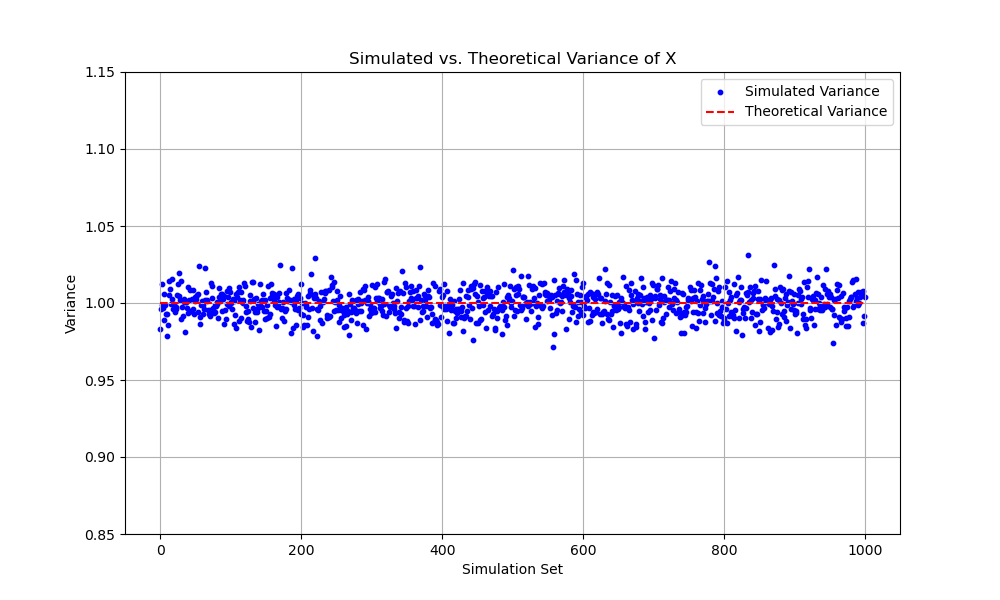
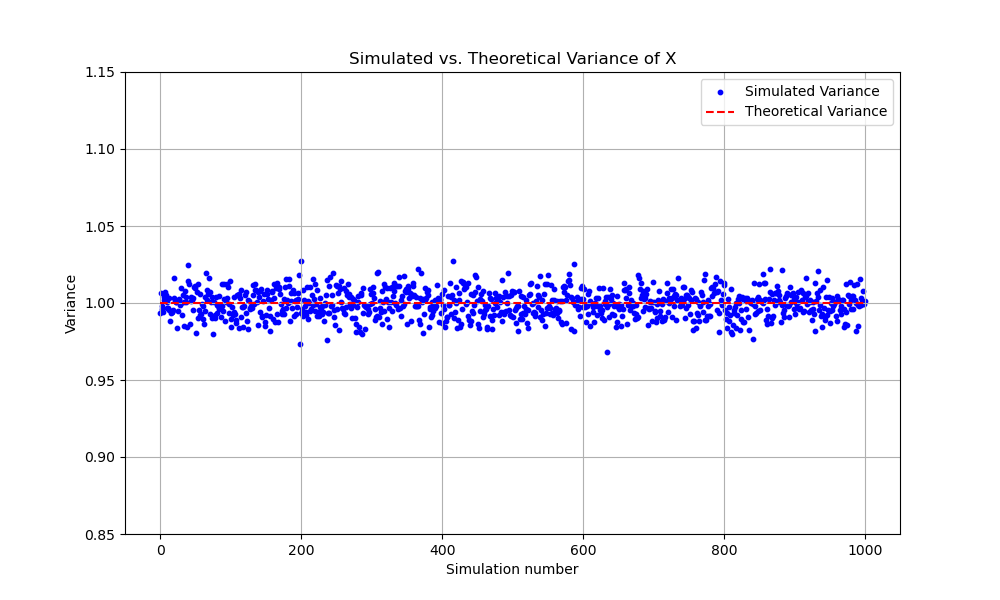
correted

Changed region(s): [[0.155, 0.42, 0.868, 0.57], [0.434, 0.93, 0.589, 0.96]]

diff --git a/62/codes/main.py b/62/codes/main.py
@@ -4,23 +4,19 @@ import matplotlib.pyplot as plt
 sets = 1000
 samples = 10000
 
-sim_vars = []
 
 theo_var = 1 
 
-for _ in range(sets):
-    sim_samples = np.random.uniform(-np.sqrt(3), np.sqrt(3), size=samples)
-    sim_var = np.var(sim_samples)
-    sim_vars.append(sim_var)
-
-theo_vars = [theo_var] * sets
+sim_samples = np.random.uniform(-np.sqrt(3), np.sqrt(3), size=(sets, samples))
+sim_vars = np.var(sim_samples, axis=1)
+theo_vars = np.full(sets, theo_var)
 
 # Create the scatter plot
 yRange = [0.85, 1.15]
 plt.figure(figsize=(10, 6))
 plt.scatter(range(sets), sim_vars, label='Simulated Variance', color='b', marker='o', s=10)
 plt.plot(range(sets), theo_vars, label='Theoretical Variance', linestyle='--', color='r')
-plt.xlabel('Simulation Set')
+plt.xlabel('Simulation number')
 plt.ylabel('Variance')
 plt.title('Simulated vs. Theoretical Variance of X')
 plt.ylim(yRange[0], yRange[1])

diff --git a/62/main.tex b/62/main.tex
@@ -219,7 +219,7 @@ Question 62
 
 Let $X$ be a random variable with the probability density function $f(x)$ such that
 \begin{align}
-p_X(x) &= 
+f(x) &= 
 	\begin{cases}
 		\frac{1}{2\sqrt{3}}, & -\sqrt{3} \leq x \leq \sqrt{3} \\
 		0, & \text{otherwise}
@@ -231,13 +231,13 @@ Then the valaue of $X$ is?
 
 The mean of $X$
 \begin{align}
-	\mu_X &= \int^{-\infty}_{\infty}xf(x)dx \\
+	\mu_X &= \int^{\infty}_{-\infty}xf(x)dx \\
 	&= \frac{1}{2\sqrt{3}}\int^{\sqrt{3}}_{-\sqrt{3}}xdx\\
 	&= 0 \label{eq:gate62}
 \end{align}
 The variance of $X$ is:
 \begin{align}
-	\sigma_X^2 &= \int^{-\infty}_{\infty}\brak{x-\mu_X}^2f(x)dx
+	\sigma_X^2 &= \int^{\infty}_{-\infty}\brak{x-\mu_X}^2f(x)dx
 \end{align}
 From \eqref{eq:gate62}
 \begin{align}
